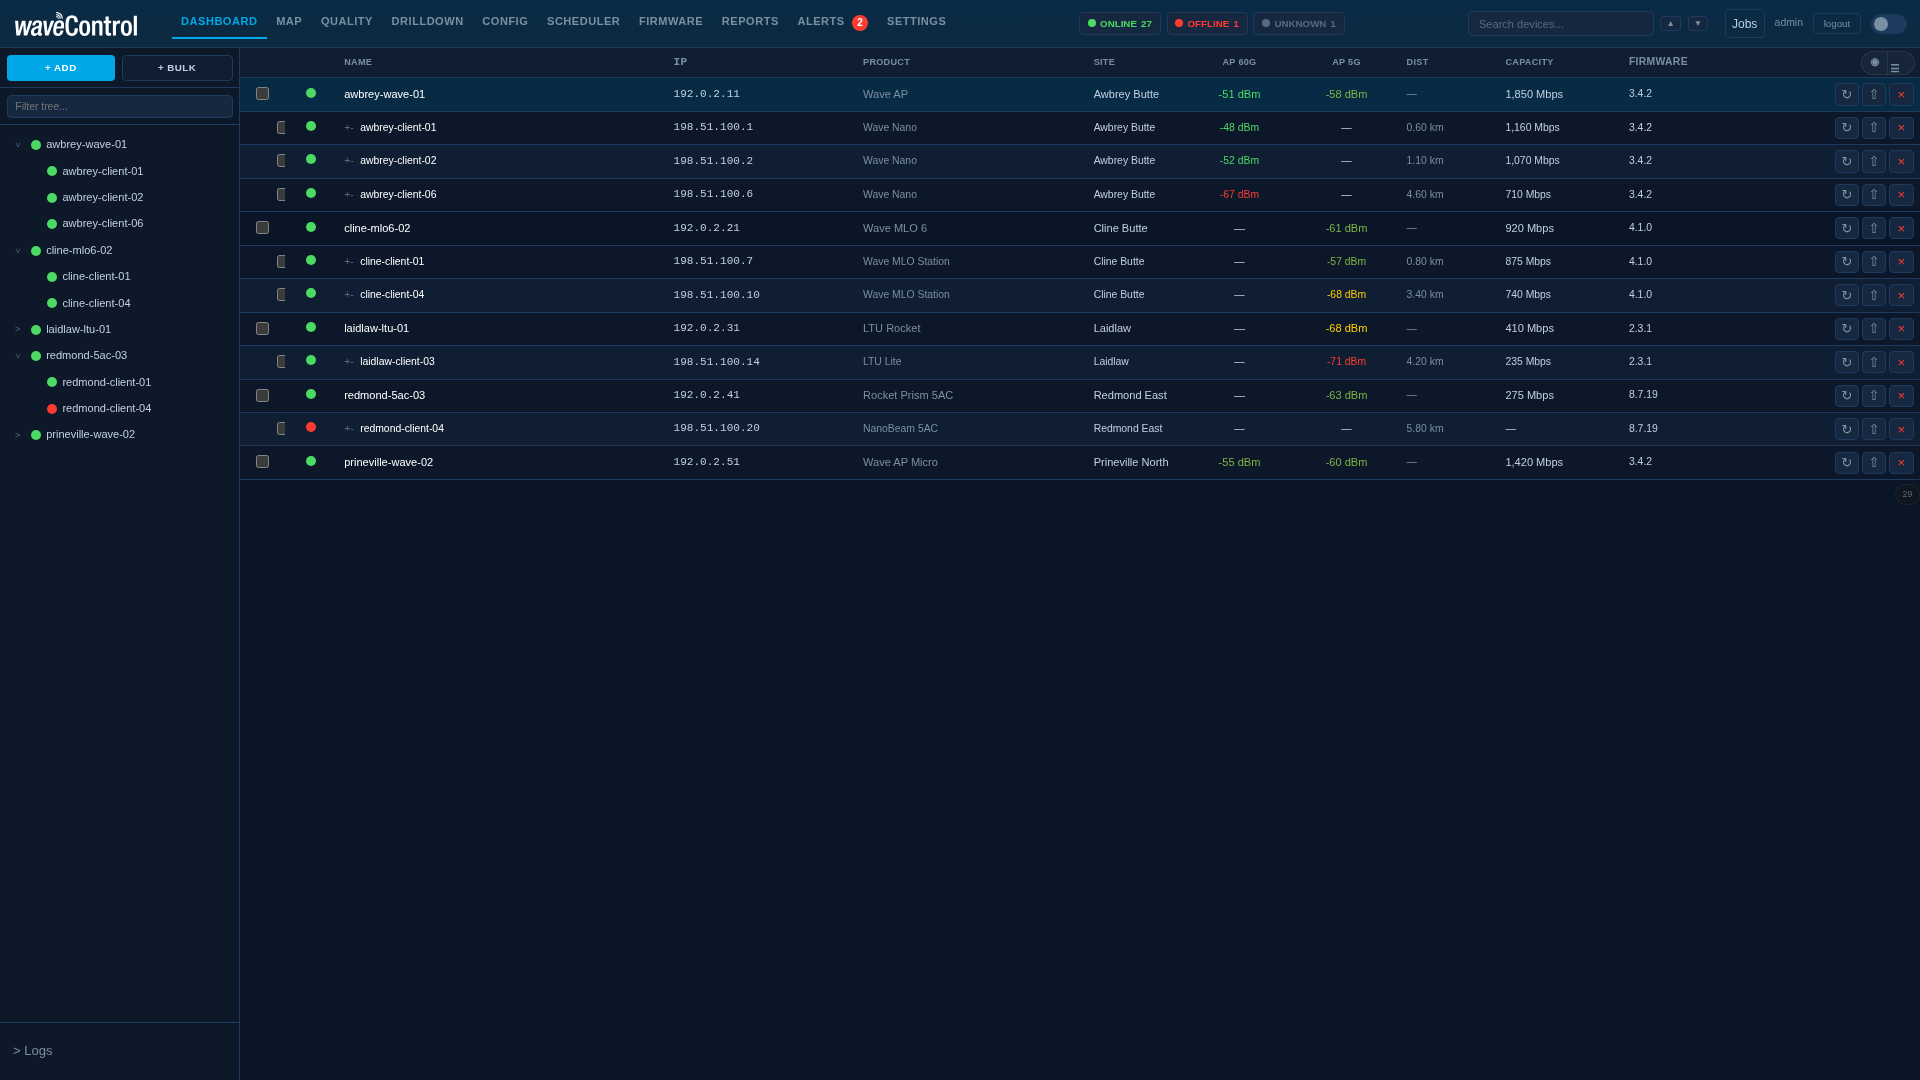
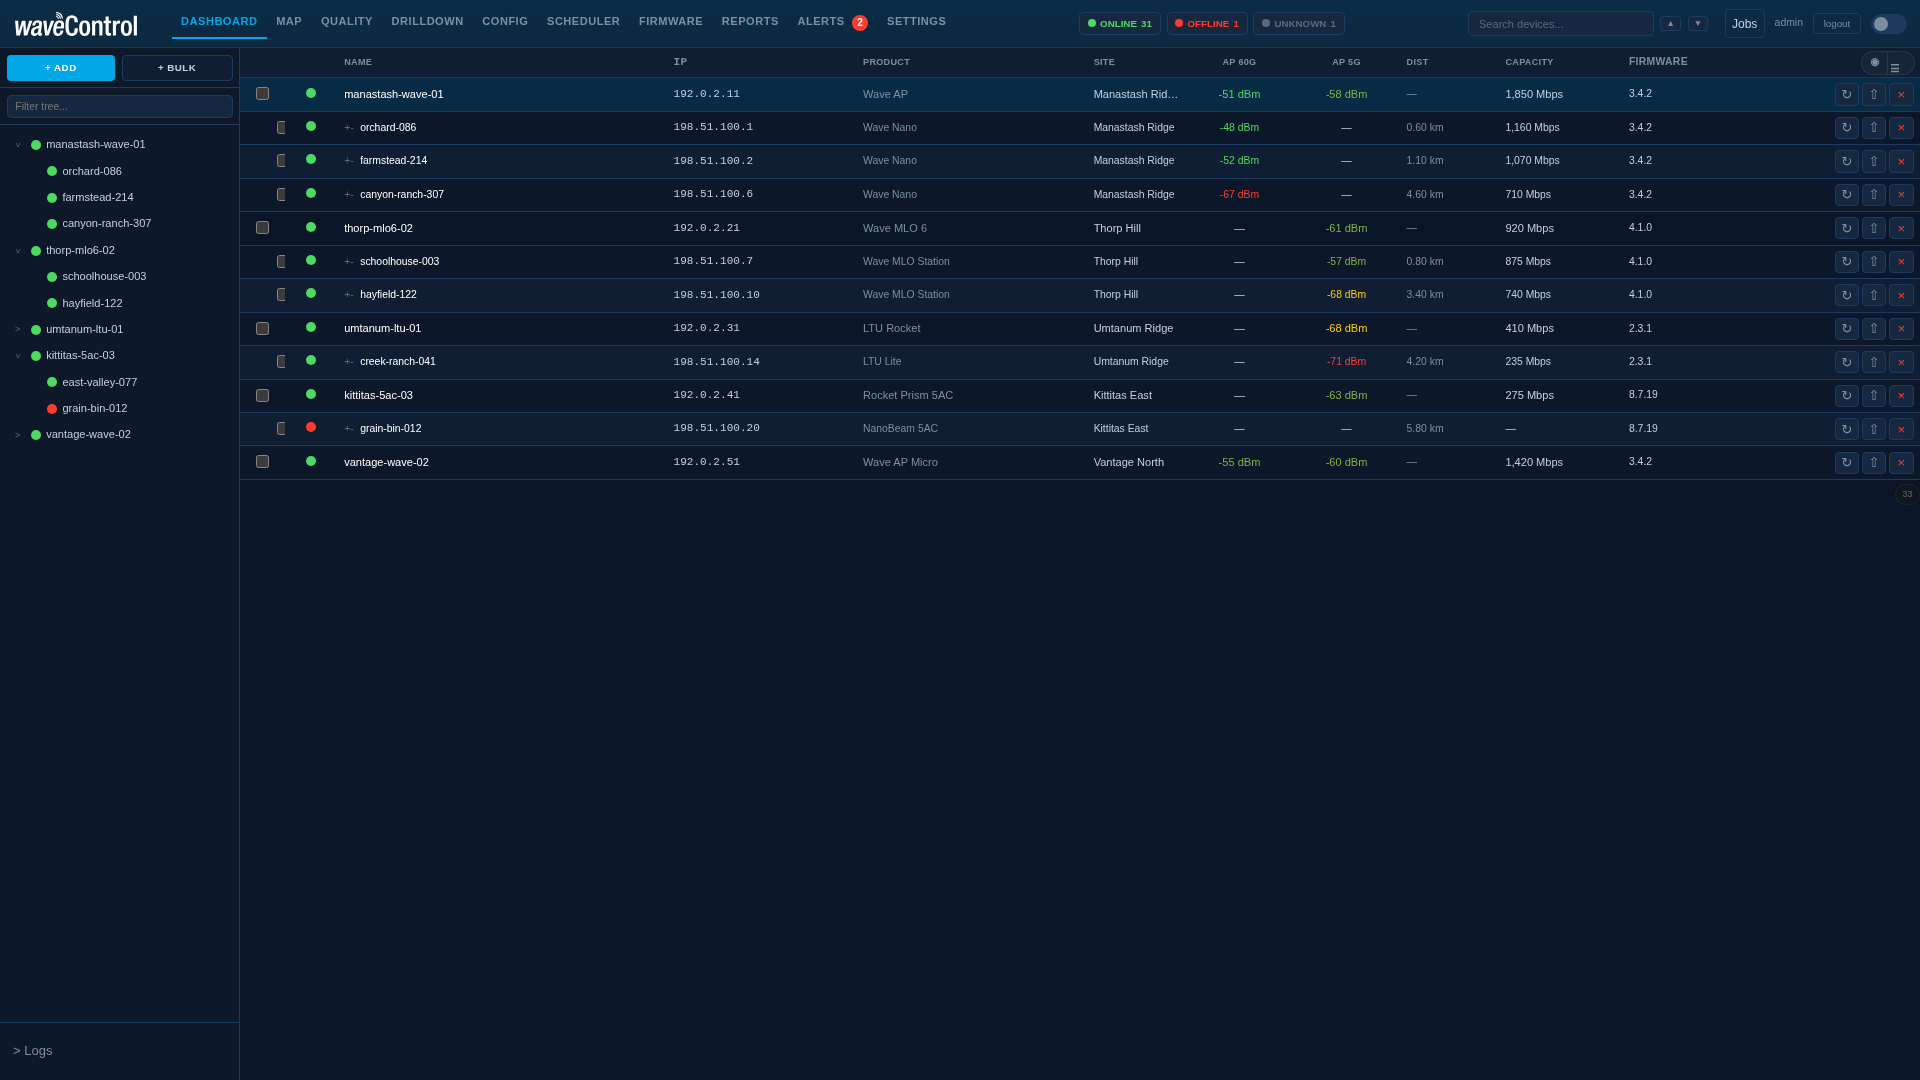
update screenshots

diff --git a/docs/screenshots/README.md b/docs/screenshots/README.md
@@ -1,6 +1,6 @@
 # README screenshots
 
-The PNGs in this directory are deterministic sample views for the project README. They use WaveControl's production stylesheet with fictional device names, placeholder metrics, and RFC 5737 documentation-only IP addresses; they contain no customer data or credentials.
+The PNGs in this directory are deterministic sample views for the project README. They use WaveControl's production stylesheet with fictional rural Washington tower sites, fictional customer-station labels, placeholder metrics, and RFC 5737 documentation-only IP addresses; they contain no real customer data or credentials.
 
 Regenerate all seven images from the repository root with:
 
@@ -8,4 +8,4 @@ Regenerate all seven images from the repository root with:
 python3 verification_ui_reports/generate_readme_screenshots.py
 ```
 
-The generator requires Python 3 and Playwright for Python. It uses `WAVECONTROL_CHROMIUM` when set, otherwise `/usr/bin/chromium` when present, and finally Playwright's managed Chromium. The map preview is an offline, deterministic fictional Central Oregon topology, so regeneration never depends on a map-tile service. The generator fails when a fixture introduces page-level horizontal overflow, produces an implausibly small image, restores any removed dashboard pill (`NO ALERTS` or a connected-peer count in the table or tree), paints dashboard signal cells with severity-colored backgrounds instead of coloring only the signal values, or omits representative map sites and links.
+The generator requires Python 3 and Playwright for Python. It uses `WAVECONTROL_CHROMIUM` when set, otherwise `/usr/bin/chromium` when present, and finally Playwright's managed Chromium. The map preview is an offline, deterministic fictional rural Washington topology, so regeneration never depends on a map-tile service. Every map line carries an explicit AP and STA identity, and the generator rejects AP-to-AP, STA-to-STA, inferred site-to-site, missing-parent, duplicate-parent, or unlinked-STA examples. It also fails when a fixture introduces page-level horizontal overflow, produces an implausibly small image, restores any removed dashboard pill (`NO ALERTS` or a connected-peer count in the table or tree), paints dashboard signal cells with severity-colored backgrounds instead of coloring only the signal values, or drops representative tower/customer content.

diff --git a/README.md b/README.md
@@ -4,7 +4,7 @@ Device management and monitoring system for Ubiquiti Wave (60GHz, 5GHz/6GHz MLO)
 
 ## Screenshots
 
-These sample views use fictional device names, placeholder metrics, and documentation-only IP addresses. Click any image to open the full-size PNG.
+These sample views use fictional rural Washington tower sites, customer stations, placeholder metrics, and documentation-only IP addresses. Map lines represent only known parent-AP-to-STA associations. Click any image to open the full-size PNG.
 
 <table>
   <tr>
@@ -20,7 +20,7 @@ These sample views use fictional device names, placeholder metrics, and document
     <td width="50%"><strong>Quality</strong><br><a href="docs/screenshots/quality.png"><img src="docs/screenshots/quality.png" alt="waveControl signal quality screen"></a></td>
   </tr>
   <tr>
-    <td colspan="2"><strong>Map</strong><br><a href="docs/screenshots/map.png"><img src="docs/screenshots/map.png" alt="waveControl network map with fictional Central Oregon sites and wireless links"></a></td>
+    <td colspan="2"><strong>Map</strong><br><a href="docs/screenshots/map.png"><img src="docs/screenshots/map.png" alt="waveControl rural Washington network map with tower APs connected only to their associated customer STAs"></a></td>
   </tr>
 </table>
 
